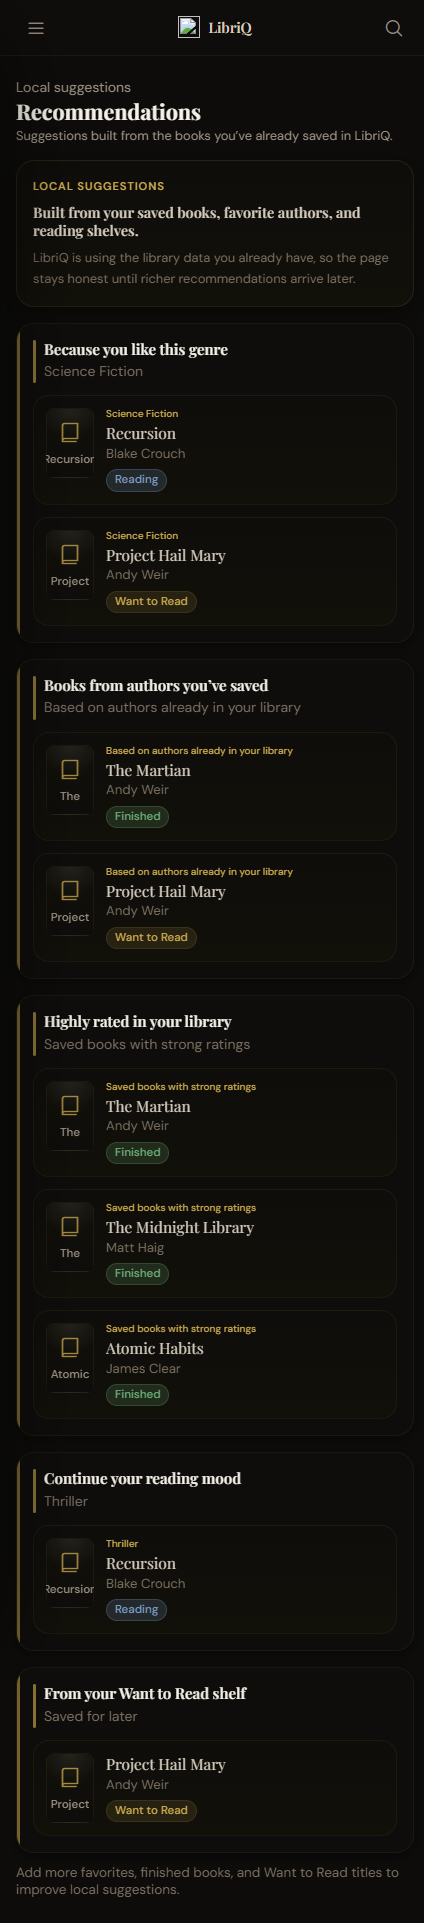
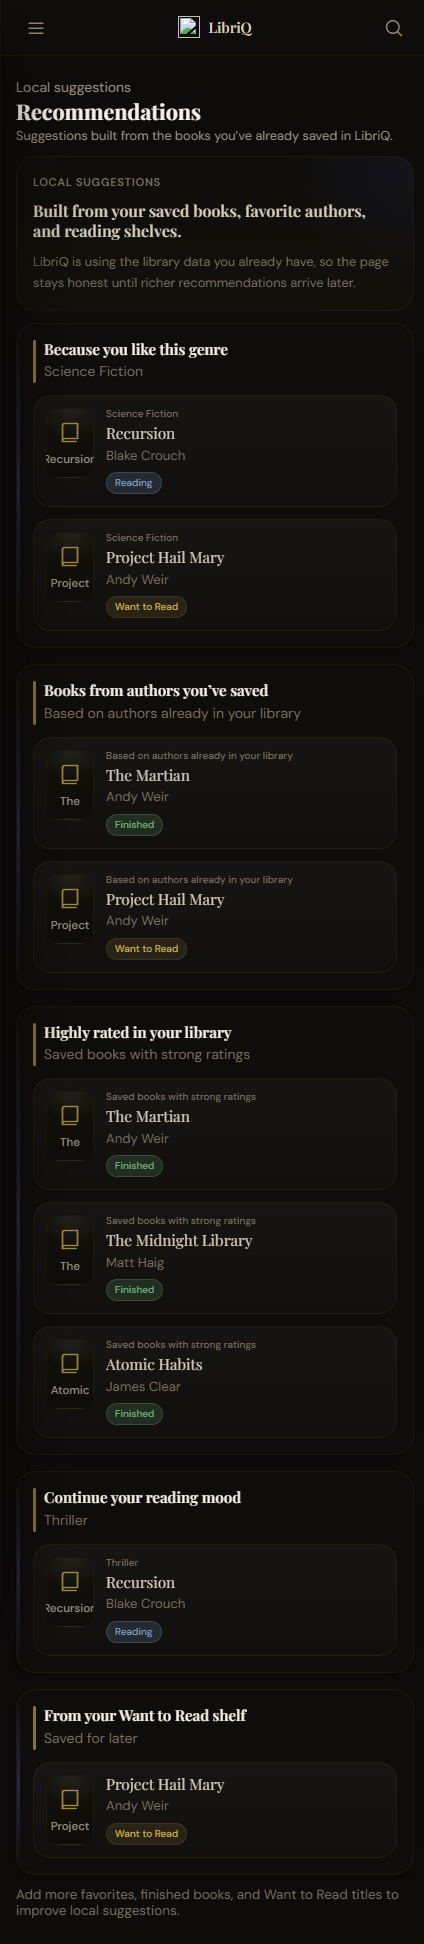
Refine recommendations page styling

diff --git a/frontend/css/components.css b/frontend/css/components.css
@@ -685,7 +685,8 @@ html:not([data-theme="dark"]) .help-intro-icon {
 }
 
 .recommendations-header {
-  align-items: end;
+  align-items: flex-end;
+  margin-bottom: var(--space-5);
 }
 
 .recommendations-heading {
@@ -693,12 +694,14 @@ html:not([data-theme="dark"]) .help-intro-icon {
 }
 
 .recommendations-intro {
-  margin-top: var(--space-4);
+  margin-top: var(--space-3);
   padding: var(--space-5);
-  background: linear-gradient(180deg, var(--bg-surface) 0%, var(--surface-2) 100%);
-  border: 1px solid var(--border-default);
-  border-radius: var(--radius-lg);
-  box-shadow: var(--shadow-card);
+  background:
+    radial-gradient(circle at top right, rgba(99, 102, 241, 0.06), transparent 28%),
+    linear-gradient(180deg, var(--bg-surface) 0%, var(--surface-2) 100%);
+  border: 1px solid var(--border-subtle);
+  border-radius: 24px;
+  box-shadow: 0 10px 28px rgba(15, 23, 42, 0.05);
 }
 
 .recommendations-intro-copy {
@@ -713,7 +716,7 @@ html:not([data-theme="dark"]) .help-intro-icon {
   font-weight: var(--weight-semi);
   letter-spacing: 0.08em;
   text-transform: uppercase;
-  color: var(--text-accent);
+  color: var(--text-dim);
 }
 
 .recommendations-intro-title {
@@ -731,14 +734,16 @@ html:not([data-theme="dark"]) .help-intro-icon {
 }
 
 html:not([data-theme="dark"]) .recommendations-intro {
-  background: linear-gradient(180deg, #fffefb 0%, #f5efe7 100%);
-  border-color: rgba(193, 156, 88, 0.22);
+  background:
+    radial-gradient(circle at top right, rgba(99, 102, 241, 0.05), transparent 28%),
+    linear-gradient(180deg, #fffefb 0%, #f5f2ec 100%);
+  border-color: rgba(148, 163, 184, 0.22);
 }
 
 html:not([data-theme="dark"]) .recommendation-group,
 html:not([data-theme="dark"]) .recommendation-card,
 html:not([data-theme="dark"]) .recommendations-empty-state {
-  background: linear-gradient(180deg, #fffefb 0%, #f6f0e8 100%);
+  background: linear-gradient(180deg, #fffefb 0%, #f6f2ea 100%);
 }
 
 .recommendations-groups {
@@ -751,10 +756,12 @@ html:not([data-theme="dark"]) .recommendations-empty-state {
   padding: var(--space-5);
   position: relative;
   overflow: hidden;
-  background: linear-gradient(180deg, var(--bg-surface) 0%, var(--surface-2) 100%);
-  border: 1px solid var(--border-default);
-  border-radius: var(--radius-xl);
-  box-shadow: var(--shadow-sm);
+  background:
+    radial-gradient(circle at top right, rgba(59, 130, 246, 0.05), transparent 30%),
+    linear-gradient(180deg, var(--bg-surface) 0%, var(--surface-2) 100%);
+  border: 1px solid var(--border-subtle);
+  border-radius: 24px;
+  box-shadow: 0 10px 28px rgba(15, 23, 42, 0.05);
 }
 
 .recommendation-group-single {
@@ -766,8 +773,8 @@ html:not([data-theme="dark"]) .recommendations-empty-state {
   position: absolute;
   inset: 0 auto 0 0;
   width: 4px;
-  background: var(--accent);
-  opacity: 0.55;
+  background: linear-gradient(180deg, transparent, rgba(99, 102, 241, 0.9), transparent);
+  opacity: 0.4;
 }
 
 .recommendation-group-heading {
@@ -805,9 +812,12 @@ html:not([data-theme="dark"]) .recommendations-empty-state {
   align-items: start;
   min-height: 118px;
   padding: var(--space-4);
-  background: linear-gradient(180deg, var(--bg-surface) 0%, var(--surface-2) 100%);
+  background:
+    linear-gradient(180deg, rgba(255,255,255,0.03), rgba(255,255,255,0.01)),
+    var(--bg-surface);
   border: 1px solid var(--border-subtle);
-  border-radius: var(--radius-lg);
+  border-radius: 20px;
+  box-shadow: var(--shadow-xs);
   text-align: left;
   transition: border-color var(--duration-base) var(--ease-out), transform var(--duration-base) var(--ease-out), box-shadow var(--duration-base) var(--ease-out);
 }
@@ -815,7 +825,7 @@ html:not([data-theme="dark"]) .recommendations-empty-state {
 .recommendation-card:hover {
   border-color: var(--border-default);
   transform: translateY(-1px);
-  box-shadow: var(--shadow-md);
+  box-shadow: 0 14px 30px rgba(15, 23, 42, 0.08);
 }
 
 .recommendation-card:not(:disabled):hover .recommendation-card-title {
@@ -835,7 +845,7 @@ html:not([data-theme="dark"]) .recommendations-empty-state {
 .recommendation-card .book-cover {
   width: 64px;
   height: 92px;
-  border-radius: var(--radius-sm);
+  border-radius: 14px;
   box-shadow: var(--shadow-xs);
 }
 
@@ -849,7 +859,7 @@ html:not([data-theme="dark"]) .recommendations-empty-state {
 
 .recommendation-card-reason {
   font-size: var(--text-xs);
-  color: var(--text-accent);
+  color: var(--text-dim);
   font-weight: var(--weight-medium);
 }
 
@@ -889,10 +899,12 @@ html:not([data-theme="dark"]) .recommendations-empty-state {
   text-align: left;
   padding: var(--space-6);
   max-width: 760px;
-  background: linear-gradient(180deg, var(--bg-surface) 0%, var(--surface-2) 100%);
-  border: 1px solid var(--border-default);
-  border-radius: var(--radius-lg);
-  box-shadow: var(--shadow-card);
+  background:
+    radial-gradient(circle at top right, rgba(99, 102, 241, 0.05), transparent 32%),
+    linear-gradient(180deg, var(--bg-surface) 0%, var(--surface-2) 100%);
+  border: 1px solid var(--border-subtle);
+  border-radius: 24px;
+  box-shadow: 0 10px 28px rgba(15, 23, 42, 0.05);
 }
 
 .recommendations-empty-actions {
@@ -912,6 +924,7 @@ html:not([data-theme="dark"]) .recommendations-empty-state {
   margin-top: var(--space-3);
   font-size: var(--text-sm);
   color: var(--text-dim);
+  max-width: 760px;
 }
 
 @media (max-width: 430px) {
@@ -972,11 +985,6 @@ html:not([data-theme="dark"]) .recommendations-empty-state {
   #recommendationsPage .recommendations-empty-state {
     padding: var(--space-4);
     border-radius: 20px;
-    background:
-      radial-gradient(circle at top right, rgba(59, 130, 246, 0.06), transparent 32%),
-      linear-gradient(180deg, var(--bg-surface) 0%, var(--surface-2) 100%);
-    border-color: var(--border-subtle);
-    box-shadow: 0 10px 24px rgba(15, 23, 42, 0.05);
   }
 
   #recommendationsPage .recommendation-group .goal-header {
@@ -986,8 +994,8 @@ html:not([data-theme="dark"]) .recommendations-empty-state {
 
   #recommendationsPage .recommendation-group::before {
     width: 3px;
-    background: linear-gradient(180deg, transparent, var(--accent), transparent);
-    opacity: 0.35;
+    background: linear-gradient(180deg, transparent, rgba(99, 102, 241, 0.9), transparent);
+    opacity: 0.3;
   }
 
   #recommendationsPage .recommendation-group-heading {
@@ -1004,11 +1012,6 @@ html:not([data-theme="dark"]) .recommendations-empty-state {
     min-height: 92px;
     padding: var(--space-3);
     border-radius: 18px;
-    background:
-      linear-gradient(180deg, rgba(255,255,255,0.02), rgba(255,255,255,0.01)),
-      var(--bg-surface);
-    border-color: var(--border-subtle);
-    box-shadow: var(--shadow-xs);
   }
 
   #recommendationsPage .recommendation-card-cover {
@@ -1028,7 +1031,7 @@ html:not([data-theme="dark"]) .recommendations-empty-state {
   #recommendationsPage .recommendation-card-reason {
     font-size: 10px;
     line-height: 1.2;
-    color: var(--text-accent);
+    color: var(--text-dim);
   }
 
   #recommendationsPage .recommendation-card-title {
